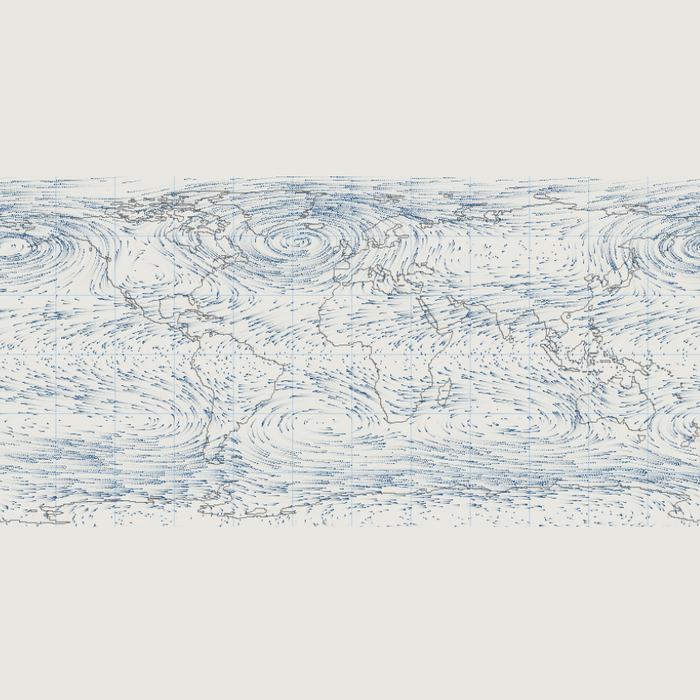
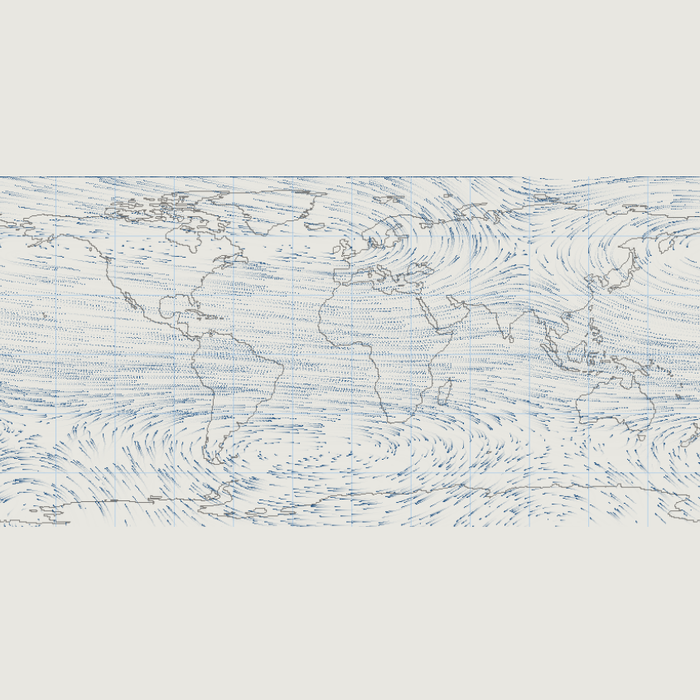
perf(circulation): kill the periodic hitch, sample wind per particle
Profiling showed a 41-49 ms frame every sixth tick while the median was 10 ms - the season refresh (17 ms for the Taichi blur plus a 12 ms rebuild of an 840x420 velocity buffer) blew past the 33 ms timer, and that irregular spike is what read as stutter. The whole-buffer velocity field is gone: particles now sample the 360x180 wind grid bilinearly at their own position, which removes 700k gathers per frame and the second buffer. Blur taps cut from 91 to 61, the refresh dropped to every 20th frame, the timer went 33 ms to 20 ms, and the speed gain rose from 0.30 to 0.60 of the shader's per-frame step. Frame time is now median 10.7 ms with P95 23.3 ms and worst 32.6 ms, all inside a 20 ms budget apart from the single refresh frame.

Changed region(s): [[0.0, 0.24, 1.0, 0.75]]

diff --git a/apps/Physics/Circulation.py b/apps/Physics/Circulation.py
@@ -210,8 +210,8 @@ class WindSim:
     def update(self, t):
         self.t = float(t)
         self._make_mslp(float(t))
-        self._blur_x(45, 15.0)
-        self._blur_y(45, 15.0)
+        self._blur_x(30, 15.0)
+        self._blur_y(30, 15.0)
         self._wind()
 
     # ---------- 读回 ----------
@@ -300,30 +300,18 @@ class CirculationApp(QMainWindow):
         self.init_ui()
         self.timer = QTimer()
         self.timer.timeout.connect(self.tick)
-        self.timer.start(33)
+        self.timer.start(20)
         self._t_prev = time.perf_counter()
         self._fps = 0.0
 
-    # ---------- 速度场放大到缓冲分辨率 ----------
+    # ---------- 速度场（直接采样模型网格，不预放大） ----------
     def _build_velocity(self):
-        w = self.wind.wind_numpy()                    # (180, 360, 2)，第 0 行是南
-        vx = np.flipud(w[:, :, 0])
-        vy = np.flipud(w[:, :, 1])
-        BH, BW = self.BH, self.BW
-
-        def up(f):
-            ys = (np.arange(BH) * f.shape[0] / BH).astype(np.int32)
-            xs = (np.arange(BW) * f.shape[1] / BW).astype(np.int32)
-            return f[np.ix_(ys, xs)]
-
-        mag = np.hypot(w[:, :, 0], w[:, :, 1])
-        ref = max(1e-6, np.percentile(mag, 80))
-        ux, uy = up(vx), up(vy)
-        m = np.hypot(ux, uy)
-        k = np.clip(m / ref, 0.0, 1.0) / np.maximum(m, 1e-9)
-        gain = BW / 144.0 * 0.30                      # 参考的 1 像素/帧是相对 144 宽
-        self._vx_w = (ux * k * gain).astype(np.float32)
-        self._vy_w = (-uy * k * gain).astype(np.float32)
+        w = self.wind.wind_numpy()                     # (180, 360, 2)，第 0 行是南
+        self._wu = w[:, :, 0].astype(np.float32)
+        self._wv = w[:, :, 1].astype(np.float32)
+        mag = np.hypot(self._wu, self._wv)
+        self._wref = max(1e-6, float(np.percentile(mag, 80)))
+        self._wgain = self.BW / 144.0 * 0.60           # 参考的 1 像素/帧是相对 144 宽
 
     # ---------- 静态底图 ----------
     def _build_base(self):
@@ -388,8 +376,11 @@ class CirculationApp(QMainWindow):
         return base * 0.38 + pr * 0.62
 
     # ---------- 粒子推进（照 getPosition 的规则） ----------
-    def _step_particles(self, vx, vy, px, py, dens, spawn, die):
-        """每个像素最多一个粒子；粒子一步移动 |v|≤1 像素，拖尾 0.9 衰减。"""
+    def _step_particles(self, px, py, dens, spawn, die):
+        """每个像素最多一个粒子；一步移动不到一格，拖尾 0.9 衰减。
+
+        速度直接从 360×180 的风场双线性采样，省掉整幅缓冲的重复采样。
+        """
         BH, BW = self.BH, self.BW
         alive = px >= 0
         ys, xs = np.nonzero(alive)
@@ -399,14 +390,19 @@ class CirculationApp(QMainWindow):
         if len(ys):
             keep = self._rng.random(len(ys)) > die
             ys, xs = ys[keep], xs[keep]
-            nx = np.mod(px[ys, xs] + vx[ys, xs], BW)
-            ny = np.clip(py[ys, xs] + vy[ys, xs], 0, BH - 1)
+            mx = px[ys, xs] / BW * W
+            my = (1.0 - py[ys, xs] / BH) * H
+            uu = _bilinear(self._wu, mx, my)
+            vv = _bilinear(self._wv, mx, my)
+            m = np.hypot(uu, vv)
+            k = np.clip(m / self._wref, 0.0, 1.0) / np.maximum(m, 1e-9)
+            nx = np.mod(px[ys, xs] + uu * k * self._wgain, BW)
+            ny = np.clip(py[ys, xs] - vv * k * self._wgain, 0, BH - 1)
             tx = np.clip(nx.astype(np.int32), 0, BW - 1)
             ty = np.clip(ny.astype(np.int32), 0, BH - 1)
             new_px[ty, tx] = nx
             new_py[ty, tx] = ny
 
-        # 空白像素里稀疏地诞生新粒子（用泊松抽样，避免每帧生成整屏随机数）
         empty = (new_px < 0).sum()
         k = self._rng.poisson(spawn * empty)
         if k > 0:
@@ -443,11 +439,11 @@ class CirculationApp(QMainWindow):
 
         # 季节连续演化：参考里 t = mod(iTime,12.) 是连续的，不能按月跳变
         if self.auto_season:
-            self._season_t += 0.018
+            self._season_t += 0.011
             if self._season_t >= 13.0:
                 self._season_t -= 12.0
         self._season_tick += 1
-        if self._season_tick % 6 == 0:
+        if self._season_tick % 20 == 0:
             self.wind.update(self._season_t)
             self._build_velocity()
             if self.show_pressure:
@@ -457,7 +453,7 @@ class CirculationApp(QMainWindow):
 
         if self.show_wind:
             self._px_w, self._py_w, self._dens_w = self._step_particles(
-                self._vx_w, self._vy_w, self._px_w, self._py_w, self._dens_w, 1.3e-4, 5e-3)
+                self._px_w, self._py_w, self._dens_w, 8.0e-5, 5e-3)
         else:
             self._dens_w *= 0.9
         self._compose()
